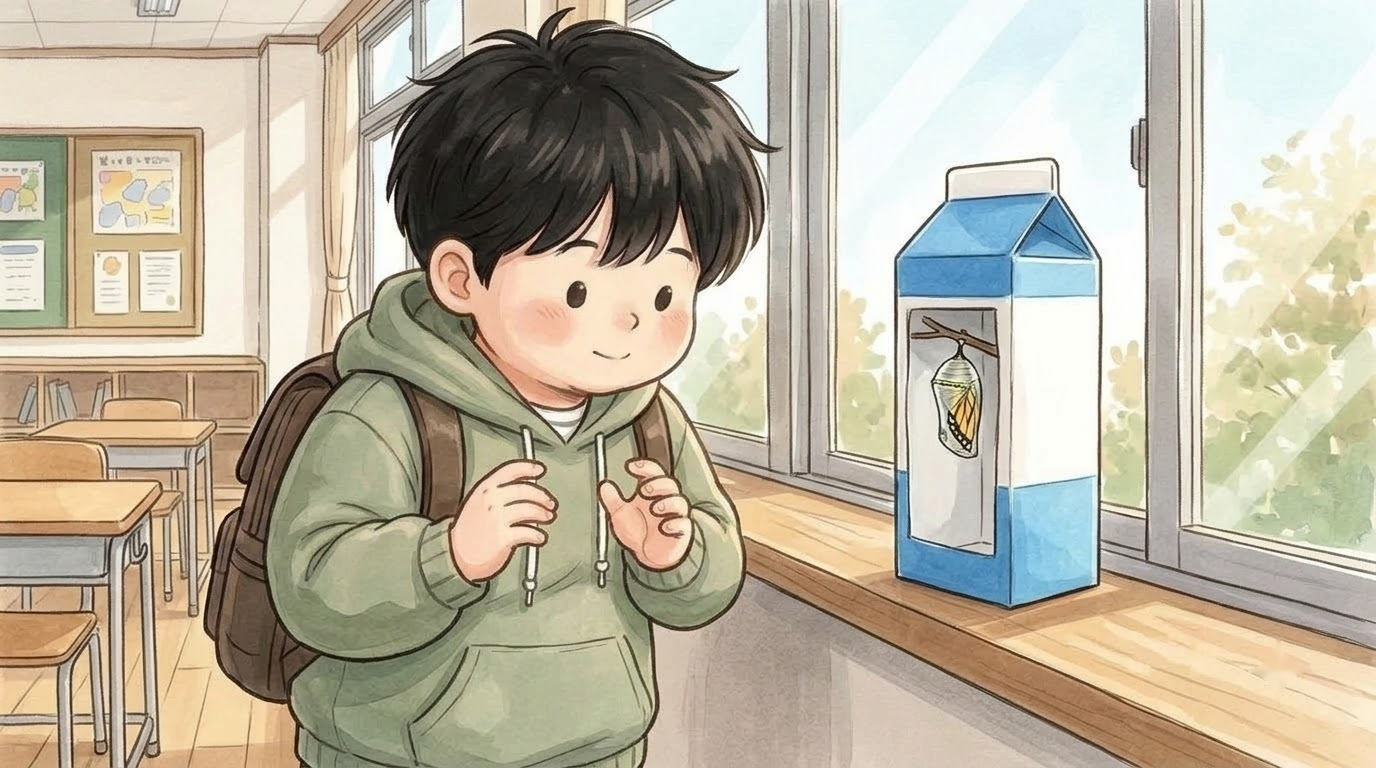
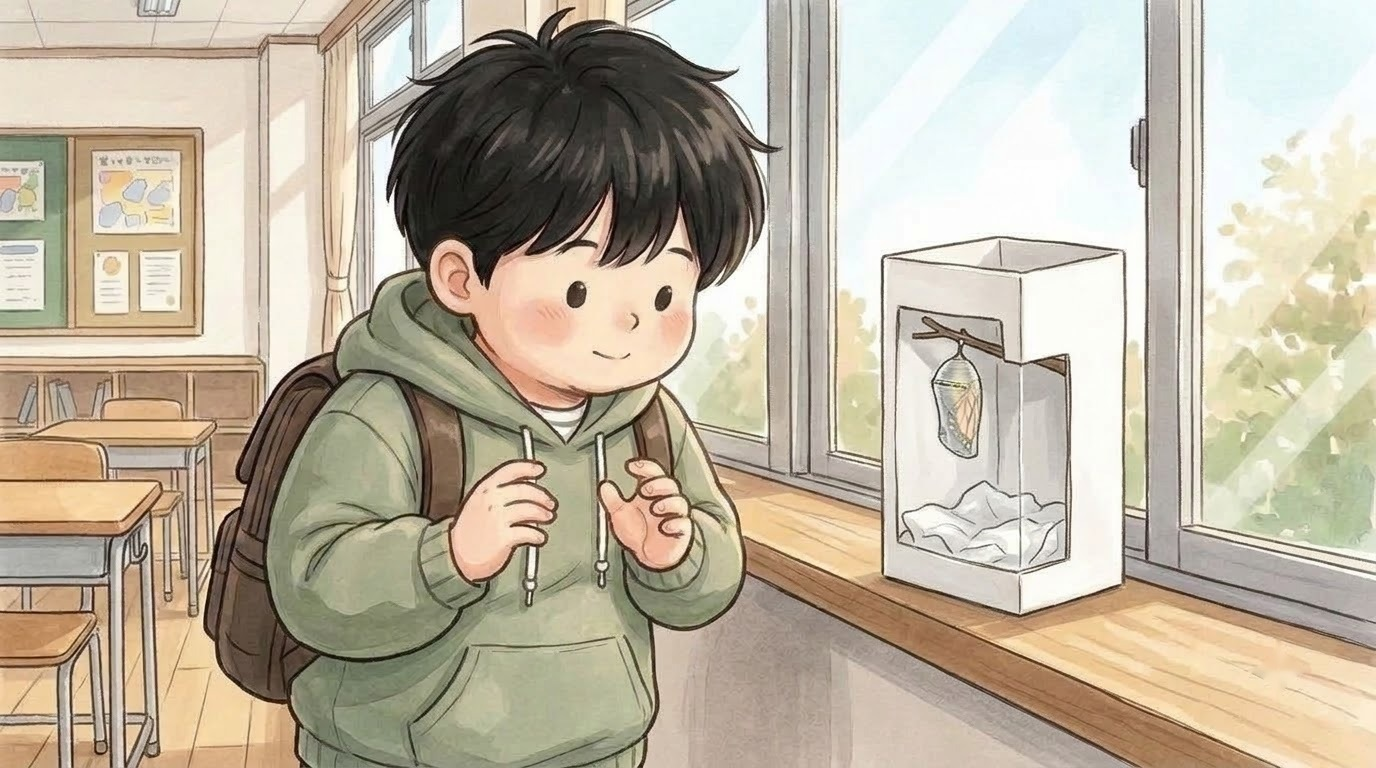
시우 그림(메인 비교): 번데기 우유갑 하얀 상자(siwoo_05b·05f)·나비 머리 더듬이 지움(siwoo_02c)·거울 장면 여·남 주인공판(siwoo_08e_f/_m, 꽃 종이 없이 손톱 만지는 손)

Changed region(s): [[0.625, 0.1875, 0.8438, 0.8125]]

diff --git a/index.html b/index.html
@@ -119,14 +119,14 @@ body,button{word-break:keep-all;overflow-wrap:break-word}
 <div id="fader"></div>
 <script>
 // same address, newest version: if the page this phone has kept is older than the one online, fetch the new one and reopen
-const BUILD='1109120843';
+const BUILD='1109121824';
 try{fetch(location.pathname,{cache:'no-store'}).then(r=>r.text()).then(t=>{const m=t.match(/const BUILD='(\d+)'/);if(m&&m[1]!==BUILD&&sessionStorage.getItem('upd')!==m[1]){sessionStorage.setItem('upd',m[1]);fetch(location.pathname,{cache:'reload'}).then(()=>location.reload())}}).catch(()=>{})}catch(e){}
 </script>
-<script src="i18n.js?v=1109120843"></script>
-<script src="i18n_prologue_v2.js?v=1109120843"></script>
-<script src="day2/i18n_engine.js?v=1109120843"></script>
-<script src="day2/data.js?v=1109120843"></script>
-<script src="day3/data.js?v=1109120843"></script>
+<script src="i18n.js?v=1109121824"></script>
+<script src="i18n_prologue_v2.js?v=1109121824"></script>
+<script src="day2/i18n_engine.js?v=1109121824"></script>
+<script src="day2/data.js?v=1109121824"></script>
+<script src="day3/data.js?v=1109121824"></script>
 <script>
 // ---------- data ----------
 const MW=1672,MH=941,KID=180;
@@ -569,36 +569,36 @@ function pickHero(){const m=document.getElementById('modal'),c=document.getEleme
  c.innerHTML=`<h2>${tr('전학생 반장되기')}</h2><p>${tr('한국말이 아직 서툰 전학생,<br>반장 선거에 나가다.')}</p><p style="margin-top:14px">${tr('누구로 할까요?')}</p>${(()=>{const s=loadSave();return s&&s.day>=2&&s.mode===UI+'-'+LANG?`<p><button class="big" id="cont">${tr('{n}일차부터 이어 하기').replace('{n}',s.day)}</button></p>`:''})()}<div class="pick heroes"><button data-h="hero_f"><img src="faces/hero_f_smile.jpg" alt="여자 주인공">${heroName(1)}</button><button data-h="hero_m"><img src="faces/hero_m_smile.jpg" alt="남자 주인공">${heroName(0)}</button></div>`;
  m.classList.add('on');{const cb=document.getElementById('cont');if(cb)cb.onclick=()=>{const s=loadSave();HERO=s.hero;Object.assign(HEART,s.heart||{});(s.found||[]).forEach(k=>FOUND.add(k));HEART_D1={...HEART};chime();(typeof contGame==='function'?contGame(s):startDay(Math.min(s.day,Object.keys(window.D3||{}).length?3:2)))}}c.querySelectorAll('.pick button').forEach(b=>b.onclick=()=>{HERO=b.dataset.h;m.classList.remove('on');chime();bgm('day');load('home_am');say([['nar','','이사 온 다음 날 아침. 아직 풀지 못한 상자들이 쌓여 있다.'],['think','sad','(오늘부터 새 학교야. 여기 말도 아직 서툰데…….)'],['think','smile','({m}한테 인사하고 학교 가야지.)']],morning)})}
 </script>
-<script src="day2/engine.js?v=1109120843"></script>
-<script src="day2/ep_minho.js?v=1109120843"></script>
-<script src="day2/meet.js?v=1109120843"></script>
-<script src="day2/ep_sua.js?v=1109120843"></script>
-<script src="day2/ep_hangyeol.js?v=1109120843"></script>
-<script src="day2/ep_siwoo.js?v=1109120843"></script>
-<script src="day2/ep_haram.js?v=1109120843"></script>
-<script src="day2/ep_jiho.js?v=1109120843"></script>
-<script src="day2/ep_hyeeun.js?v=1109120843"></script>
-<script src="day2/ep_haneul.js?v=1109120843"></script>
-<script src="day2/ep_junho.js?v=1109120843"></script>
-<script src="day2/ep_yuna.js?v=1109120843"></script>
-<script src="day2/ep_yena.js?v=1109120843"></script>
-<script src="day2/ep_haeun.js?v=1109120843"></script>
-<script src="day2/ep_youngmin.js?v=1109120843"></script>
-<script src="day2/ep_seah.js?v=1109120843"></script>
-<script src="day2/ep_jihoon.js?v=1109120843"></script>
-<script src="words_ja_ru.js?v=1109120843"></script>
-<script src="day2/mybag.js?v=1109120843"></script>
-<script src="day2/wordpics.js?v=1109120843"></script>
-<script src="day2/spots.js?v=1109120843"></script>
-<script src="day2/textfit.js?v=1109120843"></script>
-<script src="day2/tester.js?v=1109120843"></script>
-<script src="day2/ux.js?v=1109120843"></script>
-<script src="day2/tapword.js?v=1109120843"></script>
-<script src="day2/review.js?v=1109120843"></script>
-<script src="day2/plane.js?v=1109120843"></script>
-<script src="day2/bubble.js?v=1109120843"></script>
-<script src="day2/ep_ending.js?v=1109120843"></script>
-<script src="day2/ending.js?v=1109120843"></script>
+<script src="day2/engine.js?v=1109121824"></script>
+<script src="day2/ep_minho.js?v=1109121824"></script>
+<script src="day2/meet.js?v=1109121824"></script>
+<script src="day2/ep_sua.js?v=1109121824"></script>
+<script src="day2/ep_hangyeol.js?v=1109121824"></script>
+<script src="day2/ep_siwoo.js?v=1109121824"></script>
+<script src="day2/ep_haram.js?v=1109121824"></script>
+<script src="day2/ep_jiho.js?v=1109121824"></script>
+<script src="day2/ep_hyeeun.js?v=1109121824"></script>
+<script src="day2/ep_haneul.js?v=1109121824"></script>
+<script src="day2/ep_junho.js?v=1109121824"></script>
+<script src="day2/ep_yuna.js?v=1109121824"></script>
+<script src="day2/ep_yena.js?v=1109121824"></script>
+<script src="day2/ep_haeun.js?v=1109121824"></script>
+<script src="day2/ep_youngmin.js?v=1109121824"></script>
+<script src="day2/ep_seah.js?v=1109121824"></script>
+<script src="day2/ep_jihoon.js?v=1109121824"></script>
+<script src="words_ja_ru.js?v=1109121824"></script>
+<script src="day2/mybag.js?v=1109121824"></script>
+<script src="day2/wordpics.js?v=1109121824"></script>
+<script src="day2/spots.js?v=1109121824"></script>
+<script src="day2/textfit.js?v=1109121824"></script>
+<script src="day2/tester.js?v=1109121824"></script>
+<script src="day2/ux.js?v=1109121824"></script>
+<script src="day2/tapword.js?v=1109121824"></script>
+<script src="day2/review.js?v=1109121824"></script>
+<script src="day2/plane.js?v=1109121824"></script>
+<script src="day2/bubble.js?v=1109121824"></script>
+<script src="day2/ep_ending.js?v=1109121824"></script>
+<script src="day2/ending.js?v=1109121824"></script>
 <script>
 // the goal shows big for a few seconds, then folds into a small pill (tap it to open it again)
 {const g=document.getElementById('goal');let t=null;const big=()=>{g.classList.remove('mini');clearTimeout(t);t=setTimeout(()=>g.classList.add('mini'),4000)};

diff --git a/day2/ep_siwoo.js b/day2/ep_siwoo.js
@@ -872,3 +872,6 @@ addEventListener('load',()=>{const _epSw=evePart;evePart=function(id){const ls=_
 
 // the drawn Siwoo (meeting 14): his invisible sprite is the tap target over the picture
 addEventListener('load',()=>{const _ldSw=load;load=function(id,extra){try{const e0=epNext('siwoo',EPIDX.siwoo);if(id==='music'&&MAPS.music)MAPS.music.img2=(e0&&e0.place===id&&e0.drawn)?`maps/${e0.drawn[0]}.jpg`:undefined}catch(err){}const r=_ldSw.apply(this,arguments);try{const e=epNext('siwoo',EPIDX.siwoo);if(e&&e.drawn&&id===e.place){const hide=()=>{const n=npcs.find(n=>n.id==='siwoo');if(n&&n.el){n.el.style.transition='none';n.el.style.opacity=0}};hide();let k=0;const t=setInterval(()=>{hide();if(++k>25||MAP!==id)clearInterval(t)},200)}}catch(err){}return r}});
+
+// (11/09 owner) the mirror shows me: a girl and a boy version (scenes/siwoo_08e_f.jpg / _m.jpg)
+if(typeof HEROPIC!=='undefined')HEROPIC.add('siwoo_08e');
